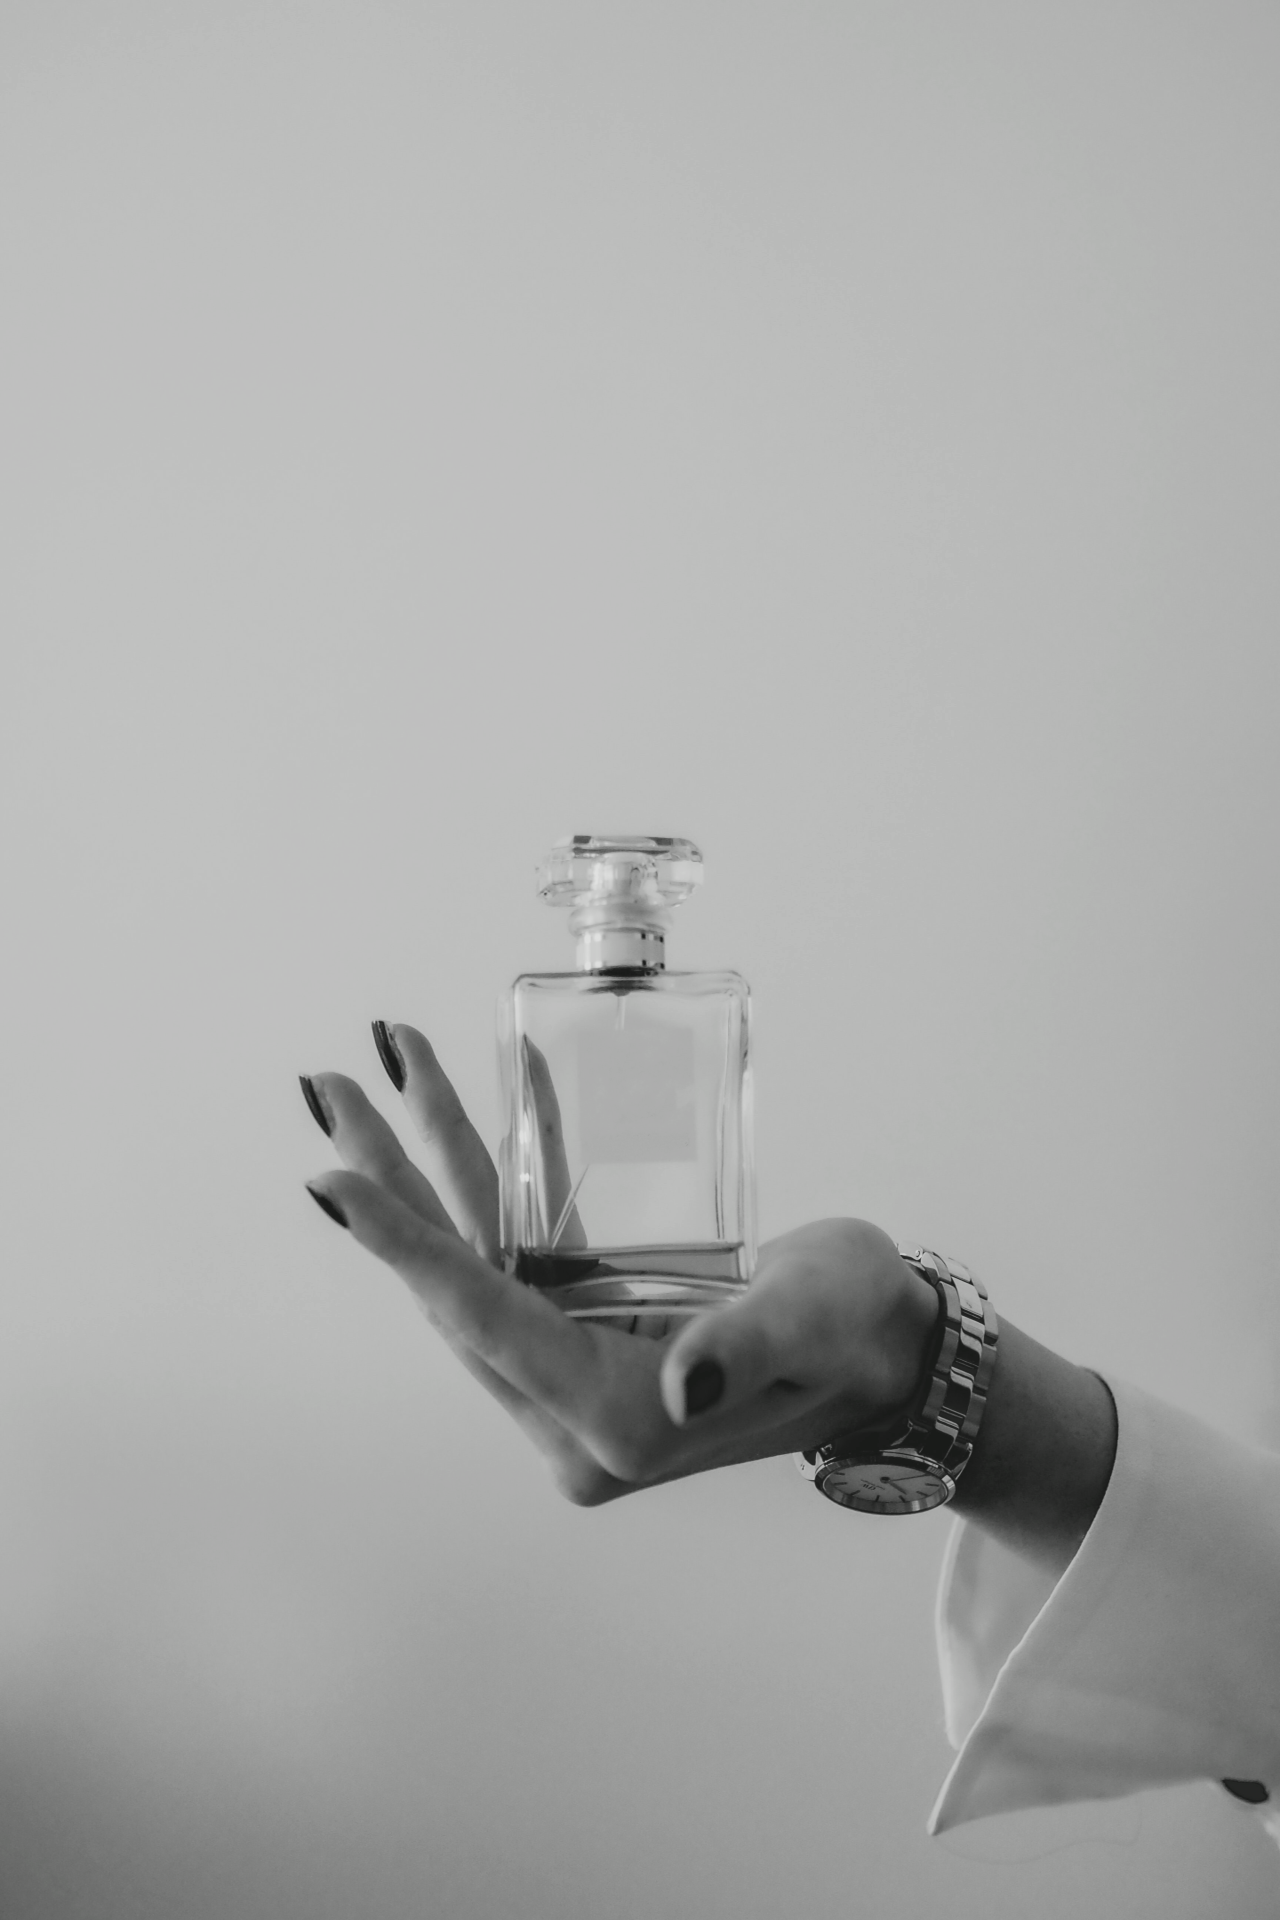
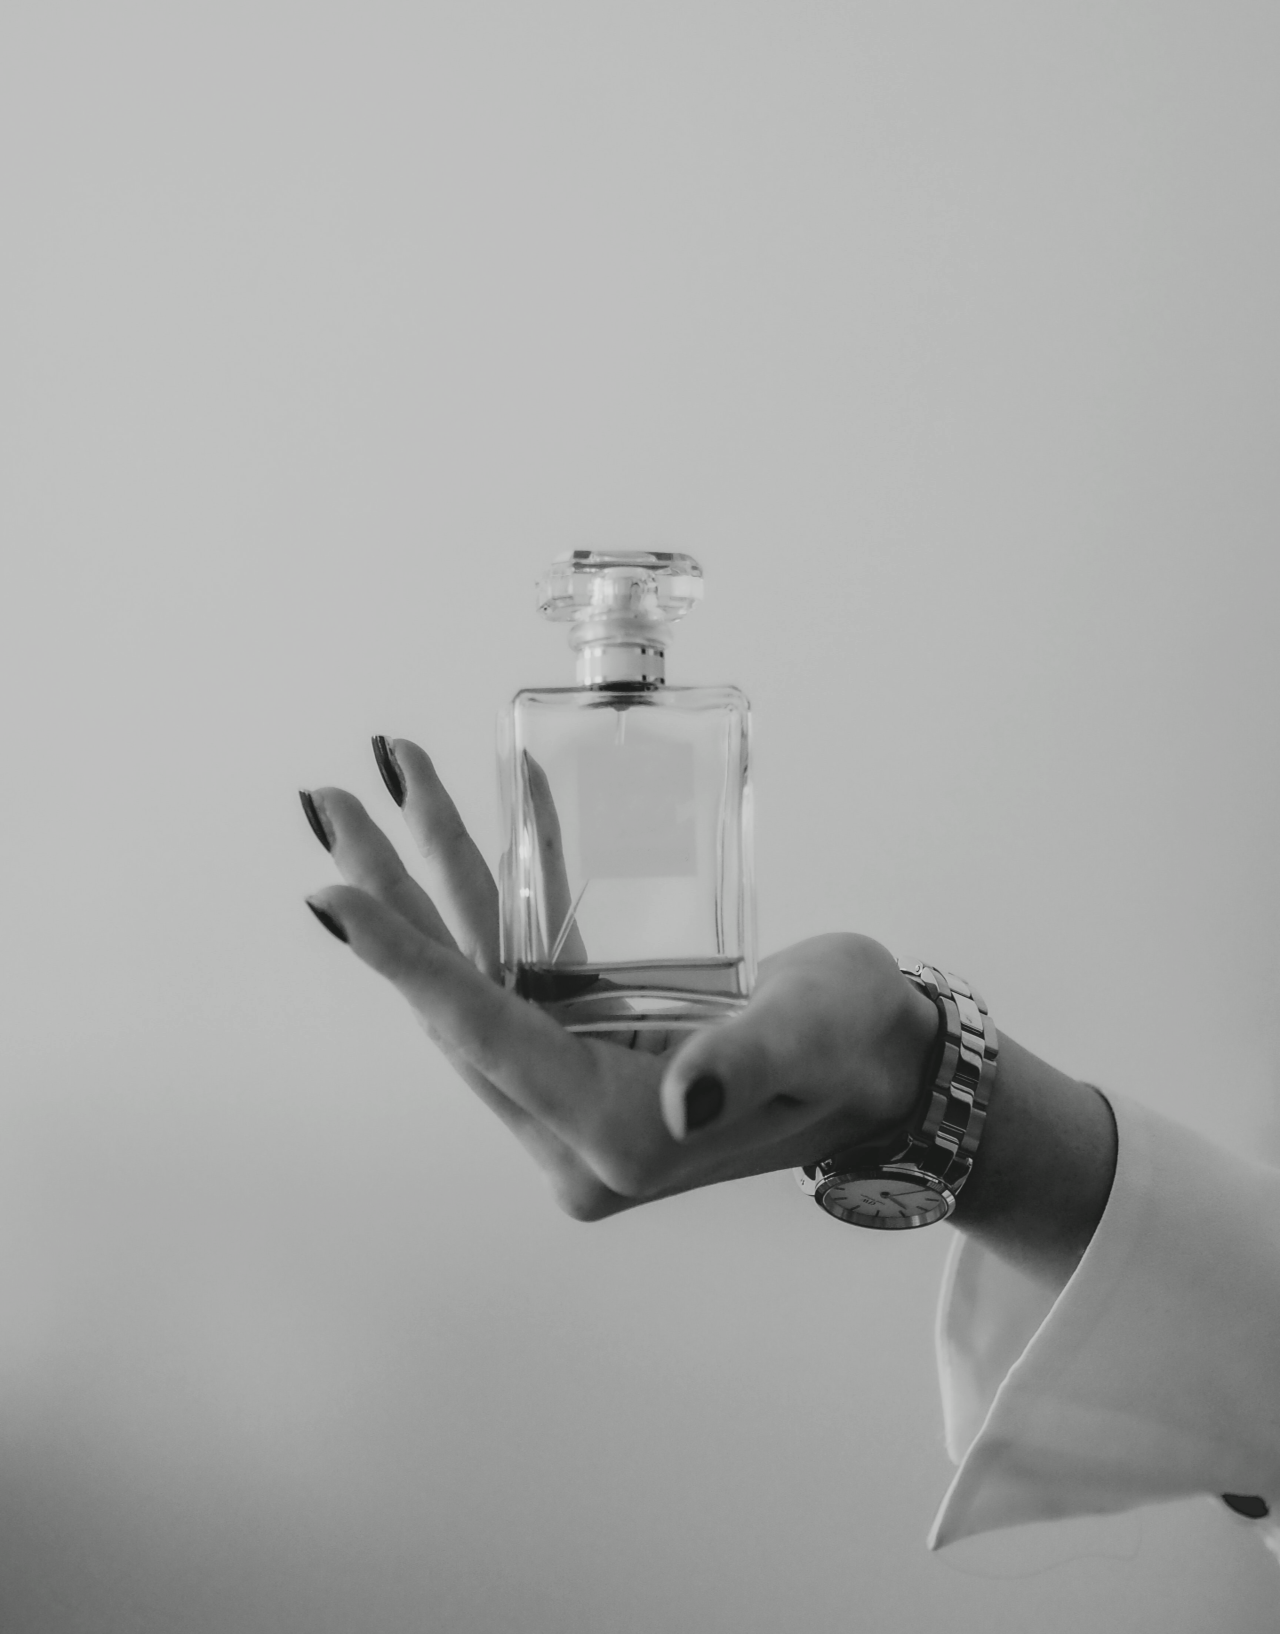
edit layout

Changed region(s): [[0.2188, 0.3121, 1.0, 0.9051], [0.8125, 0.9051, 1.0, 0.9676], [0.7188, 0.9051, 0.8125, 0.9676]]

diff --git a/css/style.css b/css/style.css
@@ -116,7 +116,7 @@ body {
 #tt_h2{
   font-family: 'Poppins', sans-serif;
   text-transform: uppercase;
-  /* margin-top: 0; */
+  margin: 0;
   font-size: 25px;
   color: rgba(252, 252, 252, 0.747)
 }
@@ -131,7 +131,7 @@ body {
   font-weight: bold;
   letter-spacing: 2px;
   text-transform: uppercase;
-  padding: 13px 22px;
+  padding: 12px 22px;
   margin-top: 42px;
   transition: all 0.4s ease-in-out;
   
@@ -148,13 +148,15 @@ body {
 #bbb{
   position: inherit;
   text-align: center;
+  padding-top: 6px;
   
   
 }
 
 
 #add_blank{
-  padding-top: 65vh;
+  position: relative;
+  padding-top: 70vh;
 }
 
 
